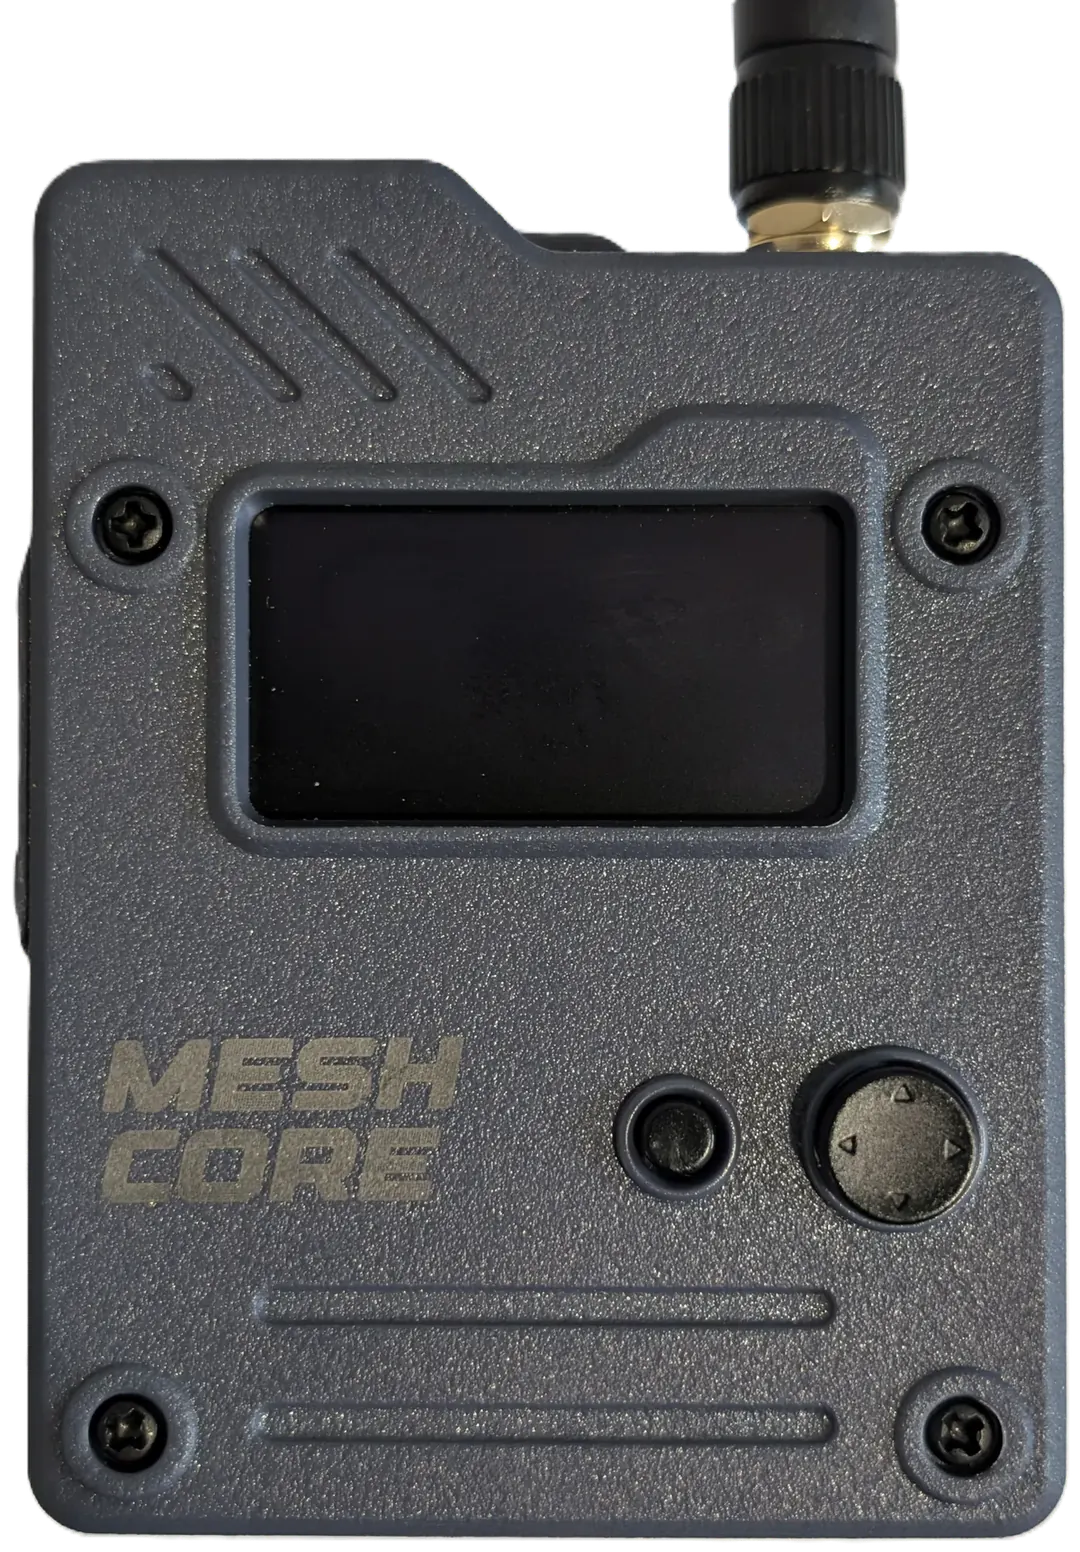
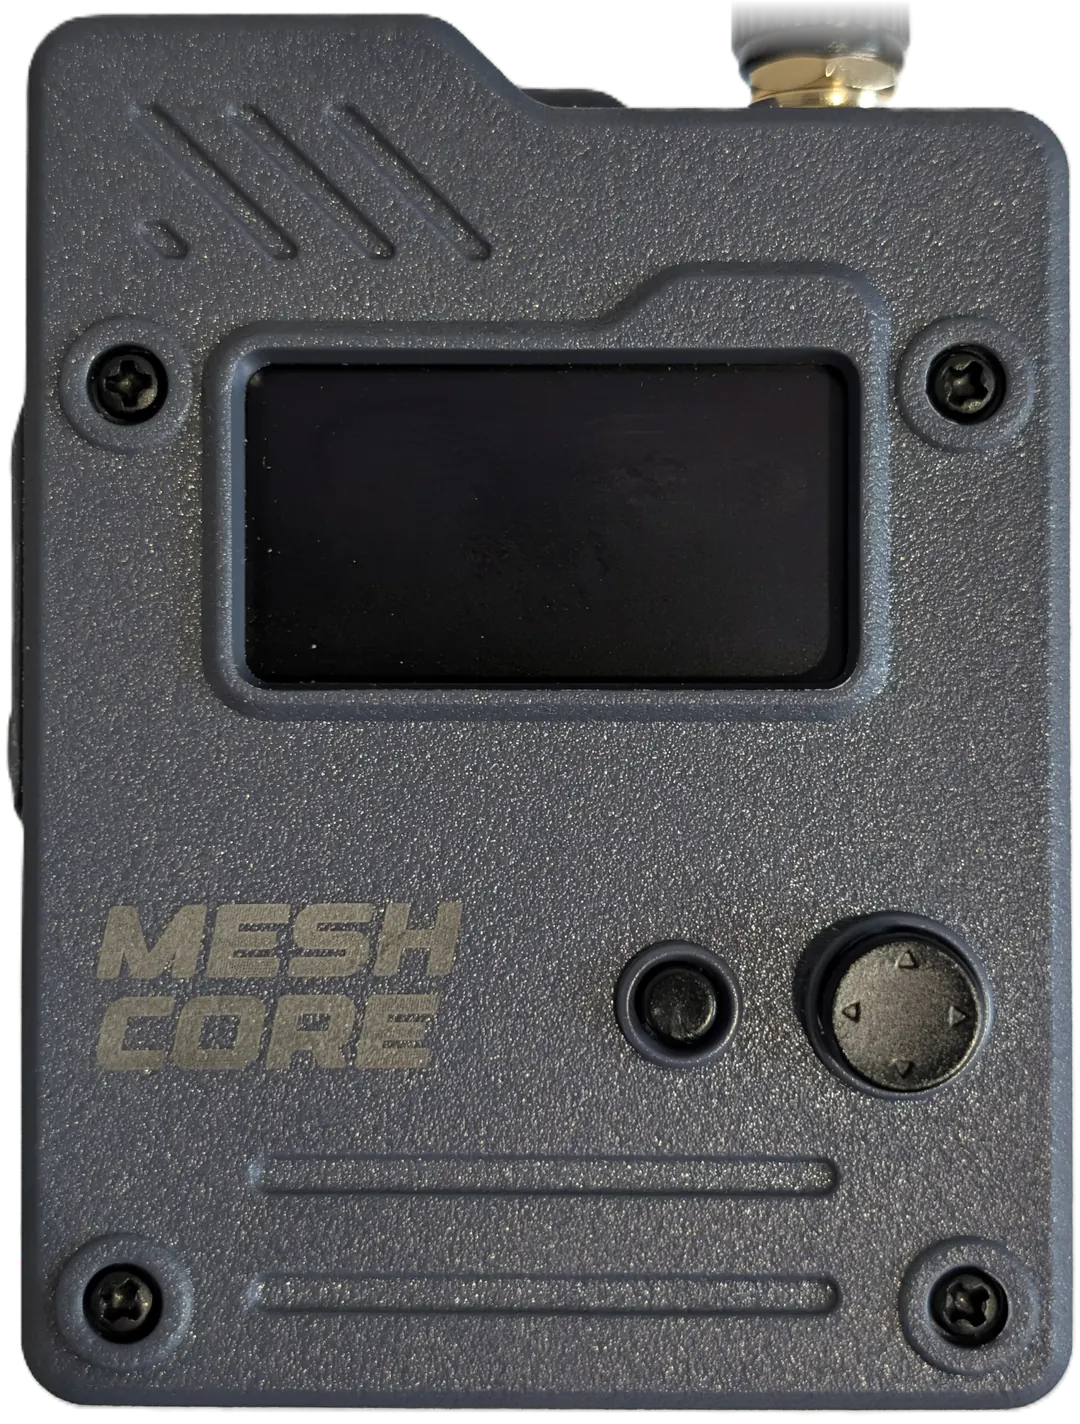
Wio phone page: crop the photo closer (antenna trimmed, narrower sides)
The antenna is cut just above the case and fades in rather than ending
in a hard edge. Screen overlay and touch areas moved with the crop.

diff --git a/wio-wmbus-survey/web/index.html b/wio-wmbus-survey/web/index.html
@@ -44,12 +44,12 @@
     -webkit-user-select: none; user-select: none; -webkit-touch-callout: none; }
   .device img { display: block; width: 100%; height: auto; pointer-events: none; }
   #oled {
-    position: absolute; left: 23.52%; top: 33.05%; width: 55.19%; height: 19.2%;
+    position: absolute; left: 23.17%; top: 26.12%; width: 55.87%; height: 21.19%;
     image-rendering: pixelated; background: rgba(0, 0, 0, .55);
     filter: drop-shadow(0 0 1.5px rgba(200, 228, 255, .55));
   }
   /* Around the joystick drags push it instead of scrolling the page (JOY.reach in the script). */
-  #joyzone { position: absolute; left: 67.7%; top: 62.84%; width: 31.11%; height: 21.65%; border-radius: 50%;
+  #joyzone { position: absolute; left: 67.90%; top: 58.99%; width: 31.50%; height: 23.89%; border-radius: 50%;
     touch-action: none; }
   .hit { position: absolute; border-radius: 50%; pointer-events: none; transform: translate(-50%, -50%);
     background: rgba(120, 190, 255, .35); box-shadow: 0 0 12px rgba(120, 190, 255, .6); opacity: 0;
@@ -127,7 +127,7 @@
 
 <section id="deviceview">
 <div class="device" id="device">
-  <img src="wio.webp" alt="Wio Tracker" width="1080" height="1552">
+  <img src="wio.webp" alt="Wio Tracker" width="1080" height="1424">
   <canvas id="oled" width="128" height="64"></canvas>
   <div id="joyzone"></div>
   <div class="hit" id="hit"></div>
@@ -314,11 +314,11 @@ document.querySelectorAll('[data-view]').forEach((b) => b.addEventListener('clic
 let savedView = null;
 try { savedView = localStorage.getItem('view'); } catch (e) {}
 setView(savedView === 'plain' ? 'plain' : 'device');
-// Positions in the photo's own pixels (as it was cropped: 2700 x 3880).
-const PHOTO_W = 2700, PHOTO_H = 3880;
-const USER_BTN = { x: 1690, y: 2845, r: 190 };
-const JOY = { x: 2248, y: 2858, knob: 110, reach: 420 };  // knob = press area, reach = direction taps
-const SCREEN = { x0: 635, y0: 1282, x1: 2125, y1: 2028 };
+// Positions in the photo's own pixels (as it was cropped: 2667 x 3516).
+const PHOTO_W = 2667, PHOTO_H = 3516;
+const USER_BTN = { x: 1673, y: 2481, r: 190 };
+const JOY = { x: 2231, y: 2494, knob: 110, reach: 420 };  // knob = press area, reach = direction taps
+const SCREEN = { x0: 618, y0: 918, x1: 2108, y1: 1664 };
 const photo = $('#device'), hit = $('#hit');
 
 function flash(x, y, r) {
